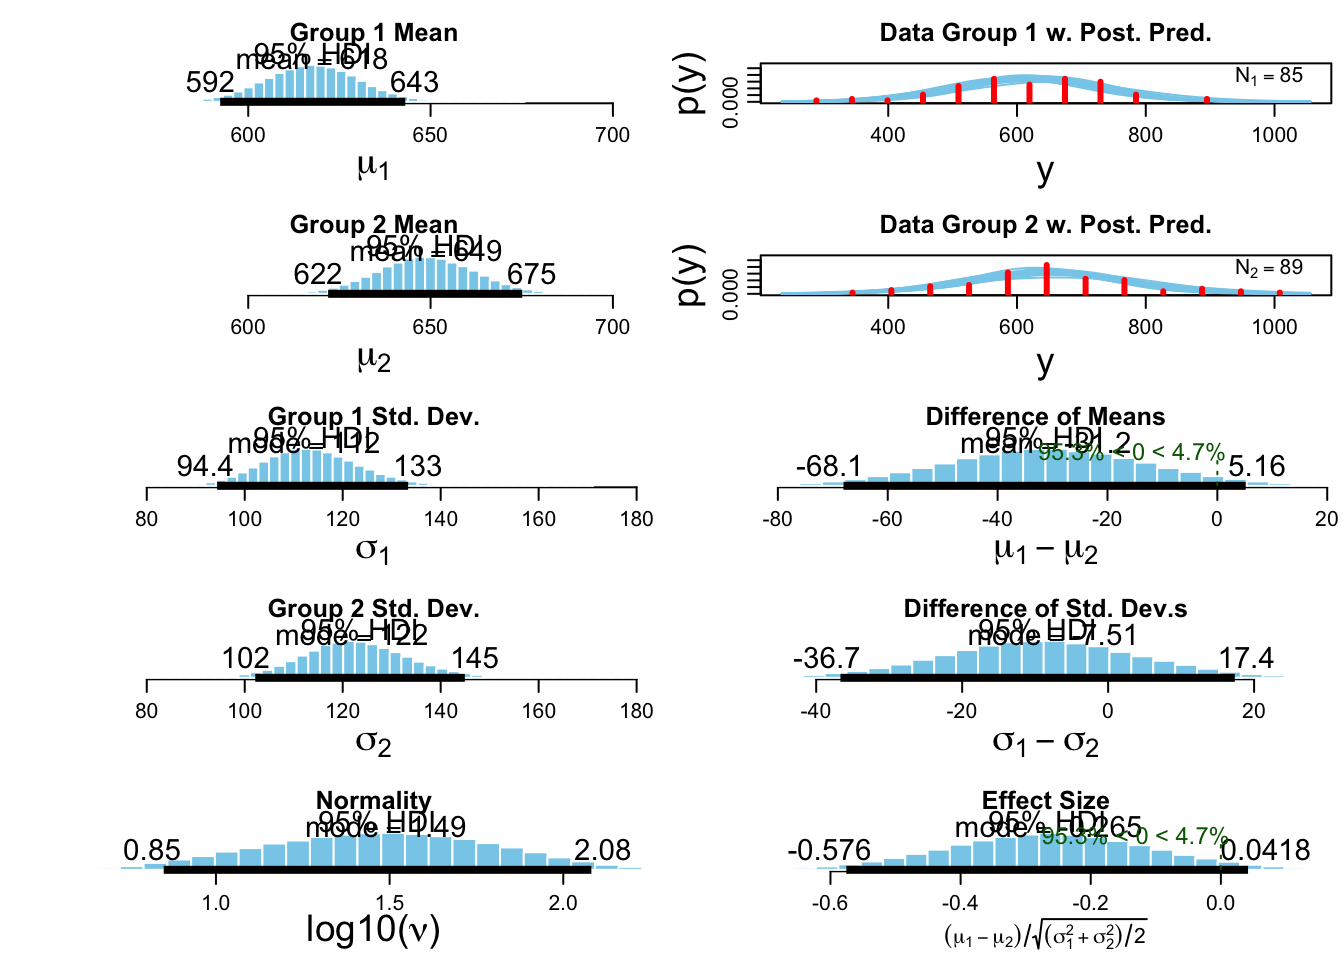
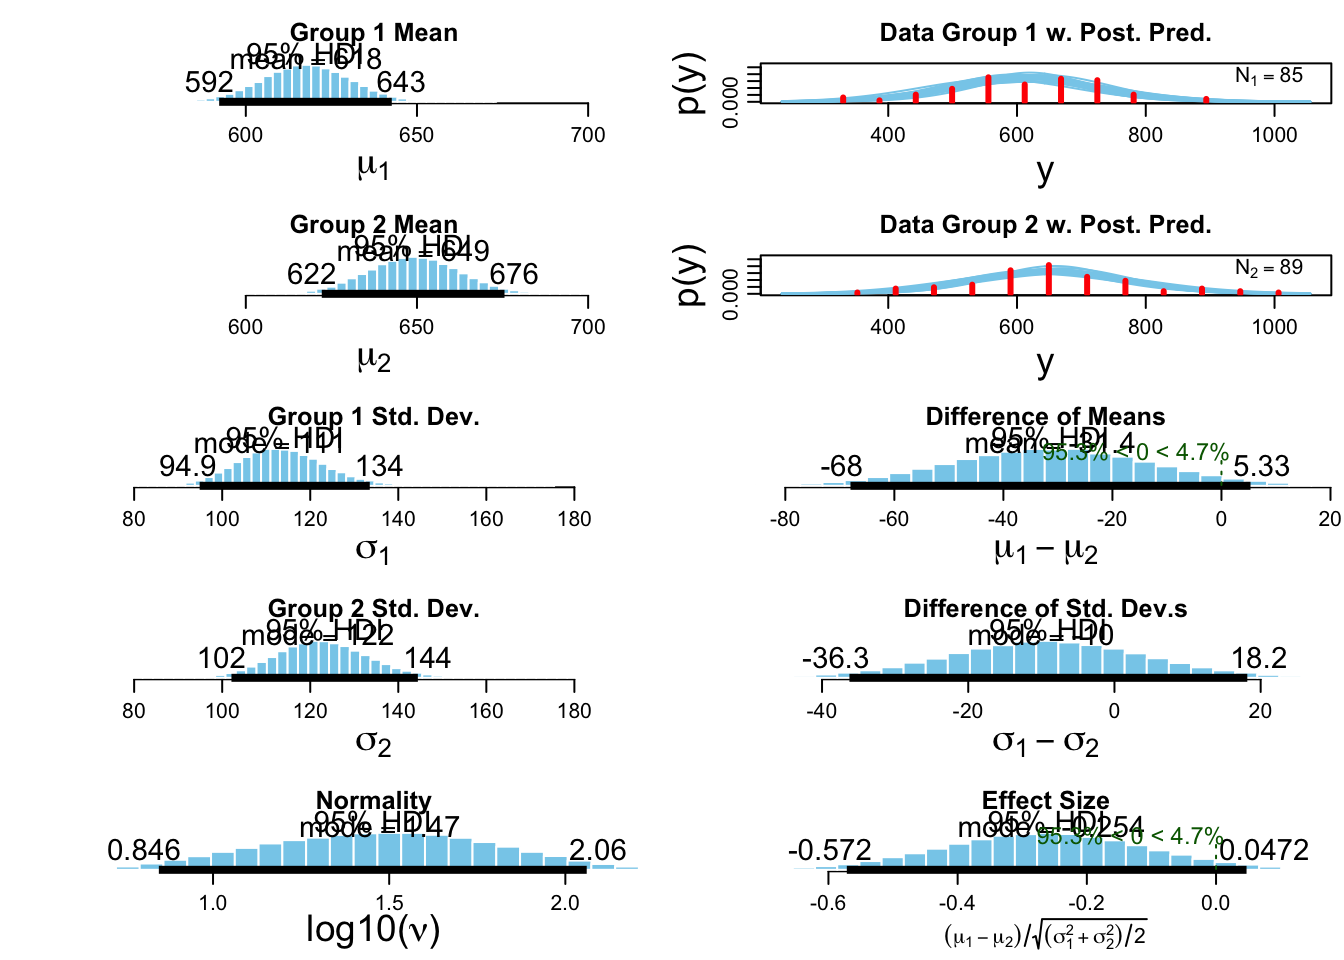
removing dates and changing titles

diff --git a/WF_bayesian.html b/WF_bayesian.html
@@ -208,7 +208,6 @@ $(document).ready(function () {
 
 <h1 class="title toc-ignore">Verbal Fluency</h1>
 <h4 class="author"><em>Benjamin C. Holding</em></h4>
-<h4 class="date"><em>02 May, 2018</em></h4>
 
 </div>
 
@@ -263,15 +262,15 @@ FAS_best_priors &lt;- BESTmcmc(VF.complete$Score.FAS[VF.complete$SD ==1],
 FAS.summary &lt;- summary(FAS_best)
 FAS.summary</code></pre>
 <pre><code>##             mean median   mode HDI%   HDIlo  HDIup compVal %&gt;compVal
-## mu1       40.554 40.554 40.606   95 38.1218 42.947                  
-## mu2       37.707 37.708 37.823   95 35.4393 40.005                  
-## muDiff     2.847  2.838  2.712   95 -0.4578  6.191       0      95.4
-## sigma1    11.208 11.165 11.044   95  9.4250 13.087                  
-## sigma2    10.583 10.554 10.486   95  8.7512 12.444                  
-## sigmaDiff  0.625  0.620  0.666   95 -1.7989  3.121       0      69.2
-## nu        38.759 29.927 15.447   95  4.2212 99.434                  
-## log10nu    1.474  1.476  1.436   95  0.8632  2.074                  
-## effSz      0.262  0.261  0.251   95 -0.0441  0.566       0      95.4</code></pre>
+## mu1       40.552 40.552 40.571   95 38.0949 42.954                  
+## mu2       37.706 37.710 37.743   95 35.3702 39.984                  
+## muDiff     2.846  2.837  2.821   95 -0.4901  6.161       0      95.3
+## sigma1    11.219 11.179 11.113   95  9.4664 13.149                  
+## sigma2    10.582 10.550 10.522   95  8.7898 12.448                  
+## sigmaDiff  0.637  0.629  0.565   95 -1.8071  3.106       0      69.5
+## nu        38.741 29.856 15.263   95  3.8959 98.611                  
+## log10nu    1.474  1.475  1.440   95  0.8545  2.064                  
+## effSz      0.261  0.260  0.258   95 -0.0436  0.567       0      95.3</code></pre>
 <pre class="r"><code>#######################ERRORS########################
 FAS_best_errors &lt;- BESTmcmc(VF.complete$Rejected.FAS.1[VF.complete$SD ==1], 
                      VF.complete$Rejected.FAS.1[VF.complete$SD ==0],
@@ -279,16 +278,16 @@ FAS_best_errors &lt;- BESTmcmc(VF.complete$Rejected.FAS.1[VF.complete$SD ==1],
 <pre><code>## Waiting for parallel processing to complete...done.</code></pre>
 <pre class="r"><code>FAS_errors.summary &lt;- summary(FAS_best_errors)
 FAS_errors.summary</code></pre>
-<pre><code>##             mean  median    mode HDI%  HDIlo HDIup compVal %&gt;compVal
-## mu1        1.426  1.4209  1.3905   95  1.025 1.831                  
-## mu2        1.538  1.5277  1.4976   95  1.104 1.994                  
-## muDiff    -0.112 -0.1109 -0.1174   95 -0.670 0.451       0      34.8
-## sigma1     1.373  1.3626  1.3482   95  1.014 1.733                  
-## sigma2     1.516  1.4966  1.4672   95  1.066 2.006                  
-## sigmaDiff -0.143 -0.1368 -0.1287   95 -0.648 0.359       0      29.1
-## nu         2.207  2.1259  1.9400   95  1.320 3.249                  
-## log10nu    0.332  0.3276  0.3294   95  0.143 0.524                  
-## effSz     -0.076 -0.0773 -0.0878   95 -0.460 0.311       0      34.8</code></pre>
+<pre><code>##              mean  median    mode HDI%  HDIlo HDIup compVal %&gt;compVal
+## mu1        1.4279  1.4223  1.3978   95  1.034 1.833                  
+## mu2        1.5413  1.5307  1.5178   95  1.108 1.997                  
+## muDiff    -0.1134 -0.1103 -0.0840   95 -0.672 0.447       0      34.7
+## sigma1     1.3749  1.3641  1.3441   95  1.023 1.742                  
+## sigma2     1.5205  1.5036  1.4917   95  1.058 1.995                  
+## sigmaDiff -0.1456 -0.1395 -0.1300   95 -0.663 0.345       0      28.7
+## nu         2.2157  2.1347  1.9788   95  1.321 3.262                  
+## log10nu    0.3342  0.3293  0.3177   95  0.145 0.528                  
+## effSz     -0.0766 -0.0766 -0.0829   95 -0.459 0.312       0      34.7</code></pre>
 </div>
 <div id="swedish-verb-task" class="section level2">
 <h2>Swedish Verb Task</h2>
@@ -313,16 +312,16 @@ Verb_best &lt;- BESTmcmc(VF.complete$Score.VERBS[VF.complete$SD ==1],
 <pre class="r"><code>#Checking the output
 Verb.summary &lt;- summary(Verb_best)
 Verb.summary</code></pre>
-<pre><code>##              mean  median    mode HDI%  HDIlo  HDIup compVal %&gt;compVal
-## mu1       18.7255 18.7201 18.6896   95 17.364 20.115                  
-## mu2       19.0568 19.0609 19.1065   95 17.832 20.273                  
-## muDiff    -0.3313 -0.3376 -0.3288   95 -2.165  1.525       0      36.0
-## sigma1     6.0736  6.0584  5.9521   95  4.888  7.308                  
-## sigma2     5.4440  5.4289  5.4119   95  4.422  6.517                  
-## sigmaDiff  0.6296  0.6254  0.6268   95 -0.766  2.003       0      81.9
-## nu        20.7480 13.6879  8.0582   95  2.931 61.834                  
-## log10nu    1.1799  1.1363  1.0177   95  0.625  1.848                  
-## effSz     -0.0597 -0.0587 -0.0603   95 -0.384  0.259       0      36.0</code></pre>
+<pre><code>##              mean median    mode HDI%  HDIlo  HDIup compVal %&gt;compVal
+## mu1       18.7188 18.714 18.6699   95 17.350 20.063                  
+## mu2       19.0619 19.062 19.0424   95 17.853 20.288                  
+## muDiff    -0.3431 -0.344 -0.3255   95 -2.114  1.542       0      35.7
+## sigma1     6.0575  6.040  5.9783   95  4.883  7.293                  
+## sigma2     5.4338  5.420  5.4313   95  4.420  6.508                  
+## sigmaDiff  0.6236  0.619  0.6750   95 -0.748  2.002       0      81.5
+## nu        19.9178 13.375  8.1667   95  2.931 57.856                  
+## log10nu    1.1685  1.126  1.0120   95  0.620  1.817                  
+## effSz     -0.0618 -0.060 -0.0509   95 -0.375  0.265       0      35.7</code></pre>
 <pre class="r"><code>###########################ERRORS##########################
 VERB_best_errors &lt;- BESTmcmc(VF.complete$Rejected.VERBS[VF.complete$SD ==1], 
                      VF.complete$Rejected.VERBS[VF.complete$SD ==0],
@@ -331,15 +330,15 @@ VERB_best_errors &lt;- BESTmcmc(VF.complete$Rejected.VERBS[VF.complete$SD ==1],
 <pre class="r"><code>VERB_errors.summary &lt;- summary(VERB_best_errors)
 VERB_errors.summary</code></pre>
 <pre><code>##             mean  median    mode HDI%  HDIlo  HDIup compVal %&gt;compVal
-## mu1        1.169  1.1683  1.1679   95  0.953  1.384                  
-## mu2        1.315  1.3147  1.3146   95  1.108  1.517                  
-## muDiff    -0.146 -0.1467 -0.1591   95 -0.442  0.150       0      16.7
-## sigma1     0.935  0.9308  0.9243   95  0.766  1.116                  
-## sigma2     0.890  0.8857  0.8707   95  0.724  1.062                  
-## sigmaDiff  0.045  0.0447  0.0374   95 -0.175  0.269       0      65.6
-## nu        10.401  8.7558  7.2156   95  3.347 21.672                  
-## log10nu    0.964  0.9423  0.8816   95  0.607  1.379                  
-## effSz     -0.162 -0.1606 -0.1669   95 -0.486  0.168       0      16.7</code></pre>
+## mu1        1.169  1.1678  1.1661   95  0.954  1.381                  
+## mu2        1.315  1.3147  1.3120   95  1.110  1.519                  
+## muDiff    -0.146 -0.1463 -0.1514   95 -0.442  0.151       0      16.5
+## sigma1     0.936  0.9313  0.9252   95  0.765  1.118                  
+## sigma2     0.890  0.8850  0.8775   95  0.721  1.063                  
+## sigmaDiff  0.046  0.0456  0.0402   95 -0.176  0.271       0      65.8
+## nu        10.556  8.7844  6.9839   95  3.198 22.098                  
+## log10nu    0.967  0.9437  0.9007   95  0.595  1.382                  
+## effSz     -0.162 -0.1602 -0.1634   95 -0.492  0.163       0      16.5</code></pre>
 </div>
 </div>
 

diff --git a/Sociometric_bayesian.html b/Sociometric_bayesian.html
@@ -208,7 +208,6 @@ $(document).ready(function () {
 
 <h1 class="title toc-ignore">Sociometer analysis</h1>
 <h4 class="author"><em>Benjamin Holding</em></h4>
-<h4 class="date"><em>02 May, 2018</em></h4>
 
 </div>
 
@@ -258,15 +257,15 @@ Speaking_best_priors &lt;- BESTmcmc(sociometric.tagged$speech_profile_total_spea
 speaking.summary &lt;- summary(Speaking_best)
 speaking.summary</code></pre>
 <pre><code>##              mean  median    mode HDI%   HDIlo    HDIup compVal %&gt;compVal
-## mu1       617.576 617.587 617.402   95 592.297 643.0514                  
-## mu2       648.780 648.728 647.784   95 621.899 675.1463                  
-## muDiff    -31.205 -31.187 -32.533   95 -68.064   5.1615       0      4.72
-## sigma1    113.585 113.181 112.136   95  94.364 133.3602                  
-## sigma2    122.792 122.447 121.870   95 102.149 144.9300                  
-## sigmaDiff  -9.206  -9.189  -7.506   95 -36.677  17.3595       0     24.80
-## nu         38.402  29.712  14.893   95   3.631  98.1115                  
-## log10nu     1.467   1.473   1.489   95   0.850   2.0809                  
-## effSz      -0.264  -0.264  -0.265   95  -0.576   0.0418       0      4.72</code></pre>
+## mu1       617.624 617.677 618.005   95 592.217 642.6381                  
+## mu2       649.008 649.018 649.056   95 622.189 675.5687                  
+## muDiff    -31.384 -31.337 -27.271   95 -68.049   5.3302       0      4.67
+## sigma1    113.620 113.172 110.918   95  94.878 133.5228                  
+## sigma2    122.888 122.542 121.781   95 102.103 144.4479                  
+## sigmaDiff  -9.267  -9.265 -10.010   95 -36.253  18.1724       0     24.84
+## nu         38.349  29.804  14.491   95   3.968  97.9283                  
+## log10nu     1.469   1.474   1.474   95   0.846   2.0607                  
+## effSz      -0.266  -0.265  -0.254   95  -0.572   0.0472       0      4.67</code></pre>
 <pre class="r"><code>#Creating a plot of the posterior distribution for the difference between groups
 plot(Speaking_best) #the probability that the true value is smaller than zero = 95.5%</code></pre>
 <p><img src="Sociometric_bayesian_files/figure-html/unnamed-chunk-4-1.png" width="672" /></p>
@@ -287,16 +286,16 @@ total_volume_best &lt;- BESTmcmc(sociometric.tagged$audio_front_volume_SCALED[so
 <pre class="r"><code># check the output
 total_volume.summary &lt;- summary(total_volume_best)
 total_volume.summary</code></pre>
-<pre><code>##              mean  median    mode HDI%  HDIlo  HDIup compVal %&gt;compVal
-## mu1       -0.1029 -0.1048 -0.1057   95 -0.303  0.105                  
-## mu2       -0.0720 -0.0729 -0.0663   95 -0.290  0.148                  
-## muDiff    -0.0309 -0.0308 -0.0142   95 -0.316  0.256       0      41.6
-## sigma1     0.8206  0.8177  0.8133   95  0.637  1.017                  
-## sigma2     0.9063  0.9026  0.8910   95  0.711  1.102                  
-## sigmaDiff -0.0858 -0.0854 -0.0904   95 -0.305  0.134       0      21.9
-## nu        11.3389  7.7789  5.3162   95  2.193 31.448                  
-## log10nu    0.9417  0.8909  0.7964   95  0.466  1.536                  
-## effSz     -0.0358 -0.0356 -0.0137   95 -0.371  0.290       0      41.6</code></pre>
+<pre><code>##              mean  median    mode HDI%  HDIlo   HDIup compVal %&gt;compVal
+## mu1       -0.1027 -0.1043 -0.1131   95 -0.303  0.0993                  
+## mu2       -0.0717 -0.0722 -0.0671   95 -0.296  0.1446                  
+## muDiff    -0.0310 -0.0314 -0.0501   95 -0.316  0.2544       0      41.6
+## sigma1     0.8203  0.8174  0.8151   95  0.633  1.0119                  
+## sigma2     0.9057  0.9019  0.8893   95  0.712  1.1035                  
+## sigmaDiff -0.0854 -0.0849 -0.0806   95 -0.304  0.1362       0      22.0
+## nu        11.3562  7.7543  5.2496   95  2.289 31.5932                  
+## log10nu    0.9417  0.8895  0.8106   95  0.476  1.5449                  
+## effSz     -0.0361 -0.0363 -0.0548   95 -0.360  0.3025       0      41.6</code></pre>
 <pre class="r"><code>#Creating a plot of the posterior distribution for the difference between groups
 plot(total_volume_best)</code></pre>
 <p><img src="Sociometric_bayesian_files/figure-html/unnamed-chunk-5-1.png" width="672" /></p>
@@ -318,15 +317,15 @@ variation_volume_best &lt;- BESTmcmc(sociometric.tagged$audio_front_vol_consiste
 variation_volume.summary &lt;- summary(variation_volume_best)
 variation_volume.summary</code></pre>
 <pre><code>##              mean  median    mode HDI%  HDIlo   HDIup compVal %&gt;compVal
-## mu1        0.0352  0.0352  0.0229   95 -0.189   0.252                  
-## mu2       -0.0542 -0.0551 -0.0604   95 -0.266   0.155                  
-## muDiff     0.0895  0.0889  0.0817   95 -0.212   0.395       0      71.9
-## sigma1     1.0042  0.9996  1.0009   95  0.847   1.171                  
-## sigma2     0.9788  0.9744  0.9623   95  0.830   1.142                  
-## sigmaDiff  0.0255  0.0250  0.0141   95 -0.199   0.246       0      59.1
-## nu        46.9682 38.5711 23.1720   95  6.270 109.632                  
-## log10nu    1.5822  1.5863  1.6550   95  1.043   2.127                  
-## effSz      0.0904  0.0897  0.0852   95 -0.211   0.399       0      71.9</code></pre>
+## mu1        0.0366  0.0360  0.0289   95 -0.186   0.257                  
+## mu2       -0.0546 -0.0549 -0.0648   95 -0.261   0.157                  
+## muDiff     0.0912  0.0910  0.0995   95 -0.213   0.395       0      72.3
+## sigma1     1.0049  0.9997  0.9867   95  0.853   1.179                  
+## sigma2     0.9783  0.9741  0.9699   95  0.833   1.142                  
+## sigmaDiff  0.0266  0.0261  0.0267   95 -0.195   0.249       0      59.3
+## nu        46.8655 38.7831 24.6325   95  6.352 108.954                  
+## log10nu    1.5825  1.5886  1.6312   95  1.037   2.115                  
+## effSz      0.0920  0.0919  0.0964   95 -0.210   0.400       0      72.3</code></pre>
 <pre class="r"><code>#Creating a plot of the posterior distribution for the difference between groups
 plot(variation_volume_best)</code></pre>
 <p><img src="Sociometric_bayesian_files/figure-html/unnamed-chunk-6-1.png" width="672" /></p>

diff --git a/Lego_bayesian.html b/Lego_bayesian.html
@@ -12,7 +12,7 @@
 <meta name="author" content="Benjamin Holding" />
 
 
-<title>Bayesian Lego</title>
+<title>Model Building (Lego)</title>
 
 <script src="site_libs/jquery-1.11.3/jquery.min.js"></script>
 <meta name="viewport" content="width=device-width, initial-scale=1" />
@@ -206,9 +206,8 @@ $(document).ready(function () {
 
 
 
-<h1 class="title toc-ignore">Bayesian Lego</h1>
+<h1 class="title toc-ignore">Model Building (Lego)</h1>
 <h4 class="author"><em>Benjamin Holding</em></h4>
-<h4 class="date"><em>02 May, 2018</em></h4>
 
 </div>
 

diff --git a/Tabu_bayesian.html b/Tabu_bayesian.html
@@ -12,7 +12,7 @@
 <meta name="author" content="Benjamin Holding" />
 
 
-<title>Bayesian Tabu</title>
+<title>Word guessing (Taboo)</title>
 
 <script src="site_libs/jquery-1.11.3/jquery.min.js"></script>
 <meta name="viewport" content="width=device-width, initial-scale=1" />
@@ -206,9 +206,8 @@ $(document).ready(function () {
 
 
 
-<h1 class="title toc-ignore">Bayesian Tabu</h1>
+<h1 class="title toc-ignore">Word guessing (Taboo)</h1>
 <h4 class="author"><em>Benjamin Holding</em></h4>
-<h4 class="date"><em>02 May, 2018</em></h4>
 
 </div>
 

diff --git a/index.html b/index.html
@@ -210,7 +210,7 @@ $(document).ready(function () {
 </div>
 
 
-<p>This repository contains the analysis code used in our paper XXX (Holding, Sundelin, Lekander, Axelsson).</p>
+<p>This repository contains the analysis code used in our paper ‘Effects of sleep deprivation on dyadic verbal communication’ (Holding, Sundelin, Lekander, Axelsson).</p>
 <p>Click the tabs above to see the analytical code for each test.</p>
 
 

diff --git a/about.html b/about.html
@@ -185,10 +185,10 @@ $(document).ready(function () {
   <a href="Lego_bayesian.html">Model Building</a>
 </li>
 <li>
-  <a href="Short-term_memory.html">Taboo</a>
+  <a href="Tabu_bayesian.html">Taboo</a>
 </li>
 <li>
-  <a href="Maths.html">Sociometric badge</a>
+  <a href="Sociometric_bayesian.html">Sociometric badge</a>
 </li>
 <li>
   <a href="about.html">About</a>

diff --git a/README.md b/README.md
@@ -1,6 +1,6 @@
 # SLEEPCOM
 
 
-This repository contains the analysis code used in our paper XXX (Holding, Sundelin, Lekander, Axelsson). 
+This repository contains the analysis code used in our paper 'Effects of sleep deprivation on dyadic verbal communication' (Holding, Sundelin, Lekander, Axelsson). 
 
 For easier reading: https://benholding.github.io/SLEEP-and-COM/
